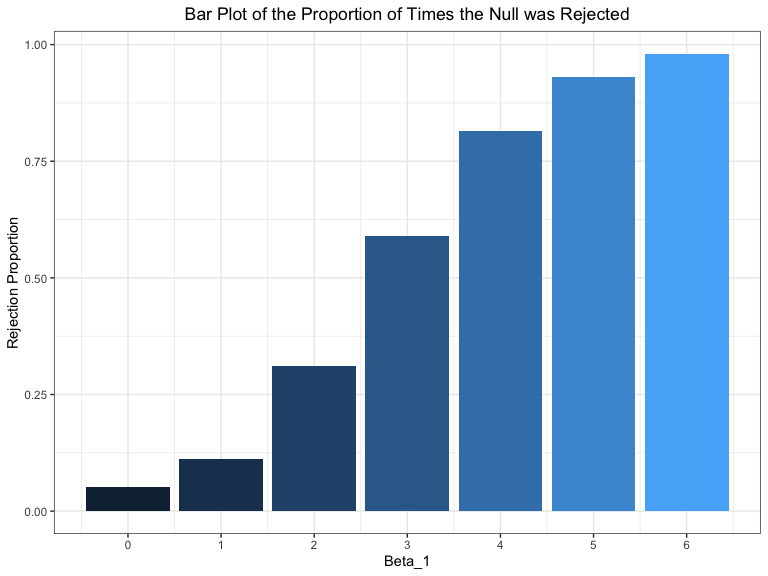
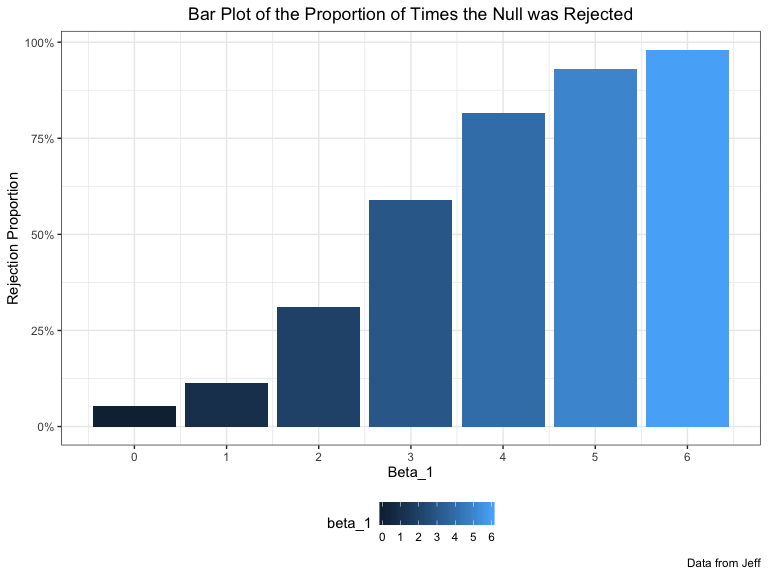
graph update

diff --git a/p8105_hw5_jz3183.md b/p8105_hw5_jz3183.md
@@ -319,11 +319,17 @@ sim_results %>%
   scale_x_continuous(
     breaks = c(0, 1, 2, 3, 4, 5, 6)
   ) + 
+  scale_y_continuous(
+    breaks = c(0, 0.25, 0.5, 0.75, 1),
+    labels = c("0%", "25%", "50%", "75%", "100%")
+  ) + 
   labs(
     title = "Bar Plot of the Proportion of Times the Null was Rejected",
     x = "Beta_1",
-    y = "Rejection Proportion") +
-  theme(plot.title = element_text(hjust = 0.5), legend.position = "none")
+    y = "Rejection Proportion",
+    caption = "Data from Jeff"
+    ) +
+  theme(plot.title = element_text(hjust = 0.5))
 ```
 
 <img src="p8105_hw5_jz3183_files/figure-gfm/p3_power-1.png" width="90%" />
@@ -374,7 +380,8 @@ sim_results %>%
   labs(
     title = "Line Plot of the Average Beta1_hat for Different Samples",
     x = "Beta_1",
-    y = "Average Beta1_hat") +
+    y = "Average Beta1_hat",
+    caption = "Data from Jeff") +
   theme(plot.title = element_text(hjust = 0.5))
 ```
 
